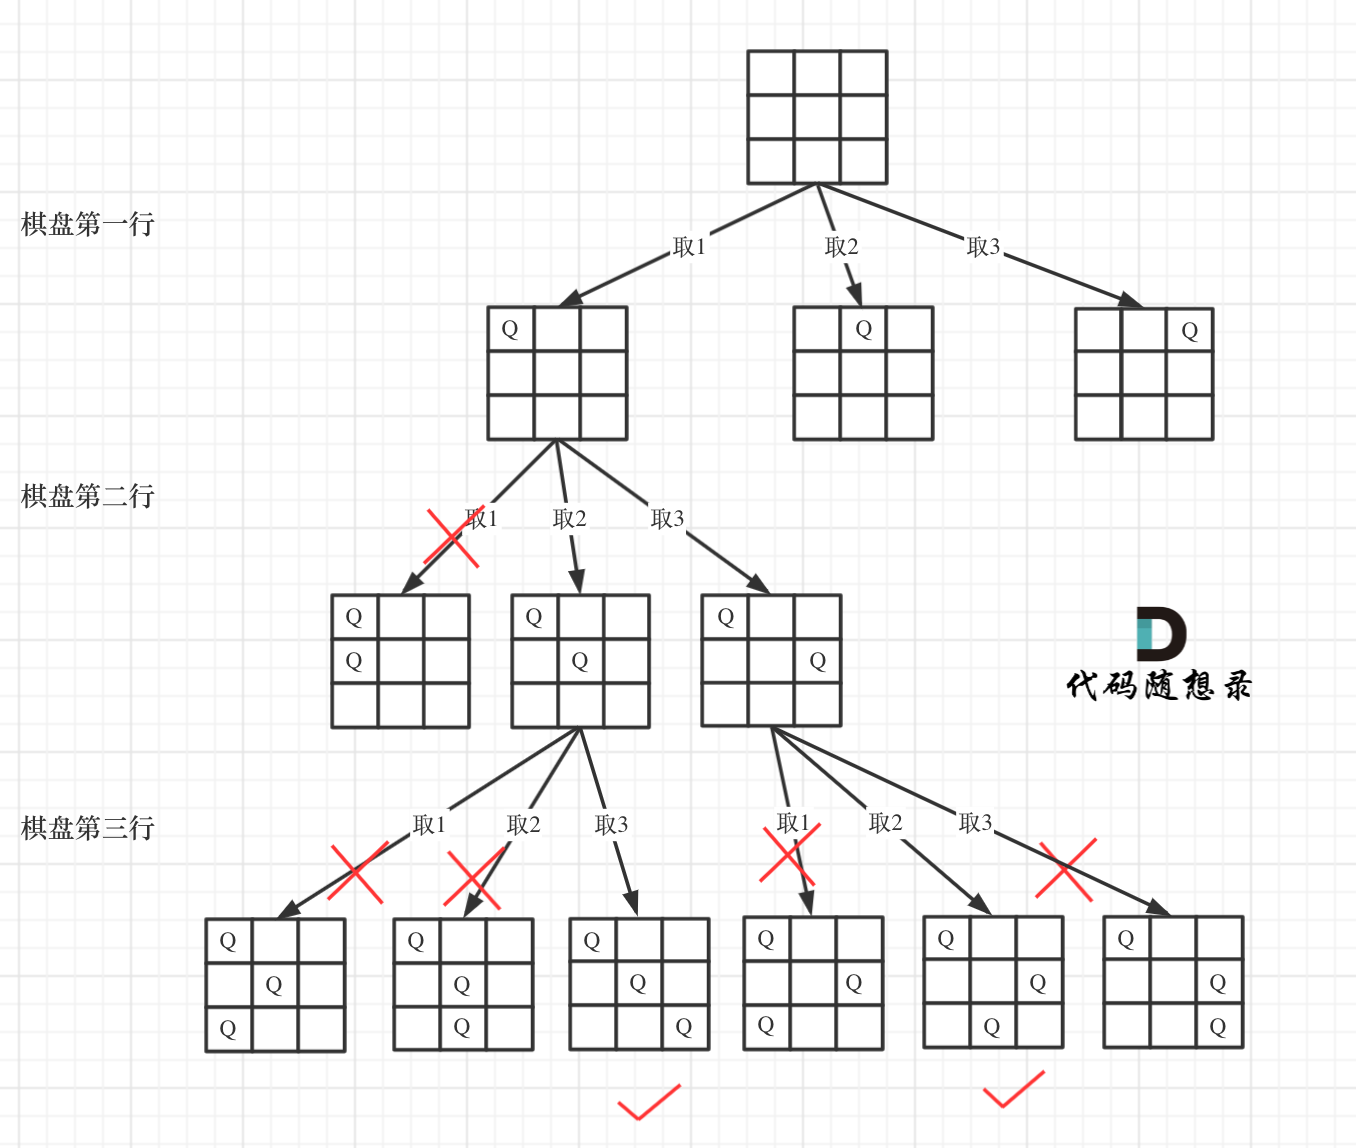
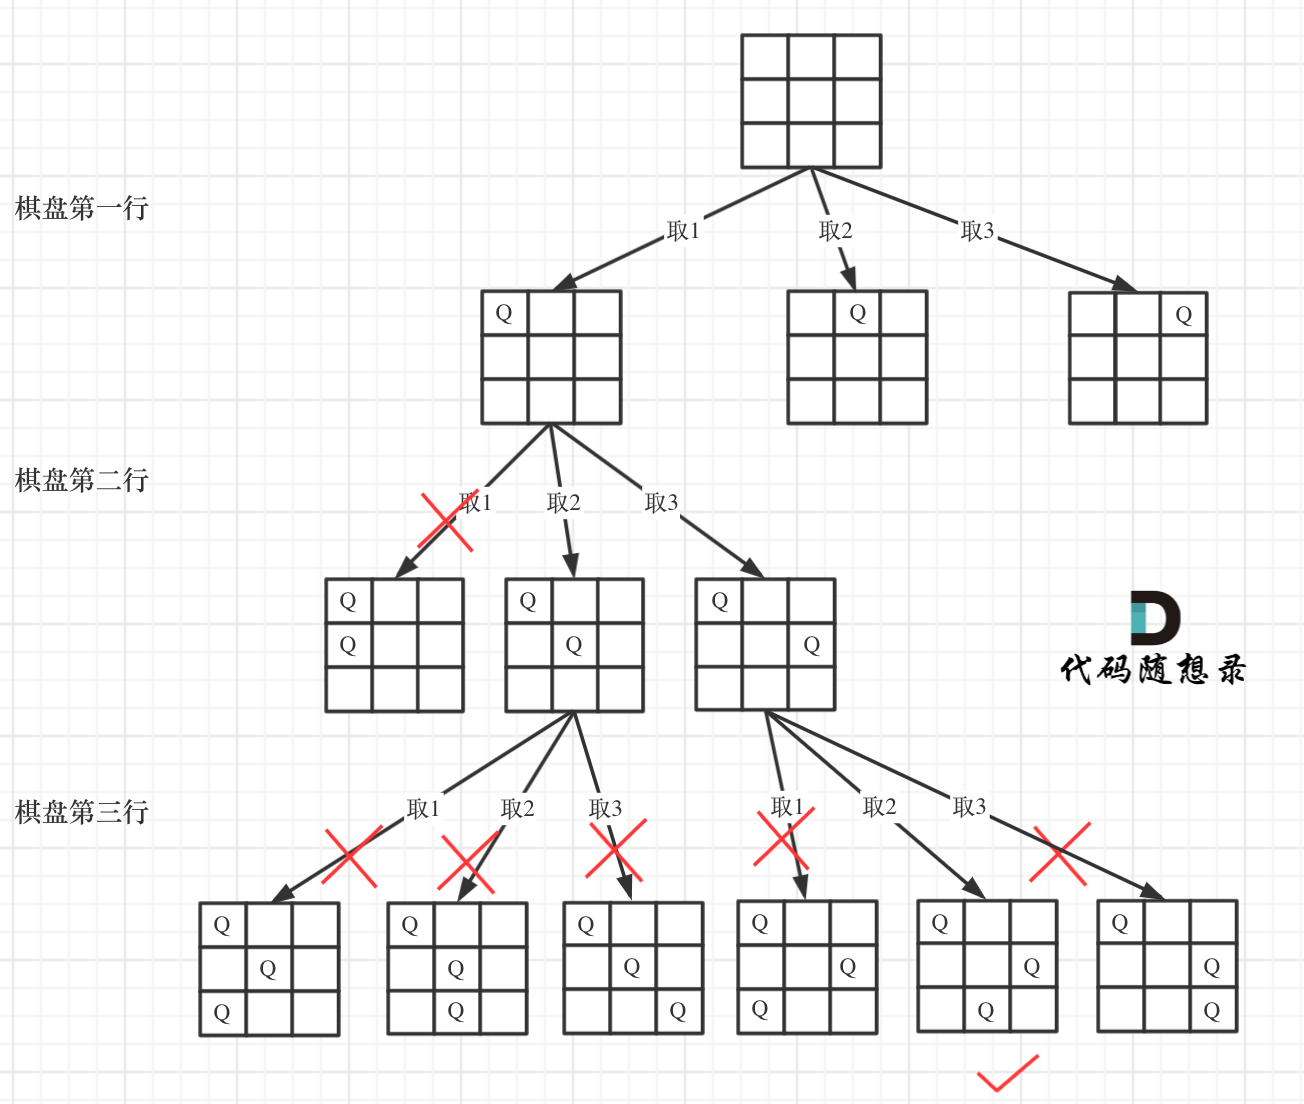
Update

diff --git a/README.md b/README.md
@@ -12,6 +12,12 @@
 
 ![算法面试知识大纲](https://img-blog.csdnimg.cn/20200729181420491.png)
 
+# 算法视频讲解 
+
+* [KMP算法（理论篇）B站视频](https://www.bilibili.com/video/BV1PD4y1o7nd)
+* [KMP算法（代码篇）B站视频](https://www.bilibili.com/video/BV1M5411j7Xx)
+* [回溯算法（理论篇）B站视频](https://www.bilibili.com/video/BV1cy4y167mM)
+
 # 算法文章精选
 
 **提示：在电脑端看如下文章的，看不到文章的评论区，建议在手机端「代码随想录」公众号里也翻一下对应的文章，评论区有录友们的打卡总结，相信会和你有不少共鸣！**
@@ -150,6 +156,8 @@
     * [本周小结！（回溯算法系列三）](https://mp.weixin.qq.com/s/tLkt9PSo42X60w8i94ViiA)
     * [本周小结！（回溯算法系列三）续集](https://mp.weixin.qq.com/s/kSMGHc_YpsqL2j-jb_E_Ag)
     * [视频来了！！带你学透回溯算法（理论篇）](https://mp.weixin.qq.com/s/wDd5azGIYWjbU0fdua_qBg)
+    * [回溯算法：重新安排行程](https://mp.weixin.qq.com/s/3kmbS4qDsa6bkyxR92XCTA)
+    * [回溯算法：N皇后问题](https://mp.weixin.qq.com/s/lU_QwCMj6g60nh8m98GAWg)
 
 
 （持续更新中....）
@@ -356,6 +364,7 @@
 |[0127.单词接龙](https://github.com/youngyangyang04/leetcode/blob/master/problems/0127.单词接龙.md) |广度优先搜索 |中等|**广度优先搜索**|
 |[0129.求根到叶子节点数字之和](https://github.com/youngyangyang04/leetcode/blob/master/problems/0129.求根到叶子节点数字之和.md) |二叉树 |中等|**递归/回溯** 递归里隐藏着回溯，和113.路径总和II类似|
 |[0131.分割回文串](https://github.com/youngyangyang04/leetcode/blob/master/problems/0131.分割回文串.md) |回溯 |中等|**回溯**|
+|[0135.分发糖果](https://github.com/youngyangyang04/leetcode/blob/master/problems/0135.分发糖果.md) |贪心 |困难|**贪心**好题目|
 |[0141.环形链表](https://github.com/youngyangyang04/leetcode/blob/master/problems/0141.环形链表.md) |链表 |简单|**快慢指针/双指针**|
 |[0142.环形链表II](https://github.com/youngyangyang04/leetcode/blob/master/problems/0142.环形链表II.md) |链表 |中等|**快慢指针/双指针**|
 |[0143.重排链表](https://github.com/youngyangyang04/leetcode/blob/master/problems/0143.重排链表.md) |链表 |中等|**快慢指针/双指针** 也可以用数组，双向队列模拟，考察链表综合操作的好题|

diff --git a/problems/0135.分发糖果.md b/problems/0135.分发糖果.md
@@ -11,7 +11,7 @@
 
 代码如下：
 
-```
+```C++
 // 从前向后 
 for (int i = 1; i < ratings.size(); i++) {
     if (ratings[i] > ratings[i - 1]) candyVec[i] = candyVec[i - 1] + 1;
@@ -37,7 +37,7 @@ for (int i = 1; i < ratings.size(); i++) {
 
 所以代码如下：
 
-```
+```C++
 // 从后向前
 for (int i = ratings.size() - 2; i >= 0; i--) {
     if (ratings[i] > ratings[i + 1] ) {
@@ -46,21 +46,8 @@ for (int i = ratings.size() - 2; i >= 0; i--) {
 }
 ```
 
-* 将问题分解为若干个子问题
-* 找出适合的贪心策略
-* 求解每一个子问题的最优解
-* 将局部最优解堆叠成全局最优解
-
-* 分解为子问题 
-
-
-
-这道题目上来也是没什么思路啊
-
-
-这道题目不好想啊，贪心很巧妙
-
-```
+整体代码如下：
+```C++
 class Solution {
 public:
     int candy(vector<int>& ratings) {
@@ -81,5 +68,9 @@ public:
         return result;
     }
 };
-
 ```
+
+> **我是[程序员Carl](https://github.com/youngyangyang04)，[组队刷题](https://img-blog.csdnimg.cn/20201115103410182.png)可以找我，本文[leetcode刷题攻略](https://github.com/youngyangyang04/leetcode-master)已收录，更多[精彩算法文章](https://mp.weixin.qq.com/mp/appmsgalbum?__biz=MzUxNjY5NTYxNA==&action=getalbum&album_id=1485825793120387074&scene=173#wechat_redirect)尽在：[代码随想录](https://img-blog.csdnimg.cn/20200815195519696.png)，关注后就会发现和「代码随想录」相见恨晚！**
+
+**如果感觉题解对你有帮助，不要吝啬给一个👍吧！**
+

diff --git a/problems/0052.N皇后II.md b/problems/0052.N皇后II.md
@@ -36,7 +36,8 @@ n 皇后问题研究的是如何将 n 个皇后放置在 n×n 的棋盘上，并
 class Solution {
 private:
 int count = 0;
-void backtracking(int n, int row, vector<string>& chessboard, vector<vector<string>>& result) {
+vector<vector<string>> result;
+void backtracking(int n, int row, vector<string>& chessboard) {
     if (row == n) {
         count++;
         return;
@@ -44,7 +45,7 @@ void backtracking(int n, int row, vector<string>& chessboard, vector<vector<stri
     for (int col = 0; col < n; col++) {
         if (isValid(row, col, chessboard, n)) {
             chessboard[row][col] = 'Q'; // 放置皇后
-            backtracking(n, row + 1, chessboard, result);
+            backtracking(n, row + 1, chessboard);
             chessboard[row][col] = '.'; // 回溯
         }
     }
@@ -74,9 +75,10 @@ bool isValid(int row, int col, vector<string>& chessboard, int n) {
 
 public:
     int totalNQueens(int n) {
+        result.clear();
         std::vector<std::string> chessboard(n, std::string(n, '.'));
         vector<vector<string>> result;
-        backtracking(n, 0, chessboard, result);
+        backtracking(n, 0, chessboard);
         return count;
 
     }

diff --git a/problems/0051.N皇后.md b/problems/0051.N皇后.md
@@ -89,7 +89,7 @@ void backtracking(int n, int row, vector<string>& chessboard) {
 * 递归终止条件 
 
 在如下树形结构中：
-![51.N皇后](https://img-blog.csdnimg.cn/20201116173551789.png)
+![51.N皇后](https://img-blog.csdnimg.cn/20201117165155239.png)
 
 可以看出，当递归到棋盘最底层（也就是叶子节点）的时候，就可以收集结果并返回了。
 
